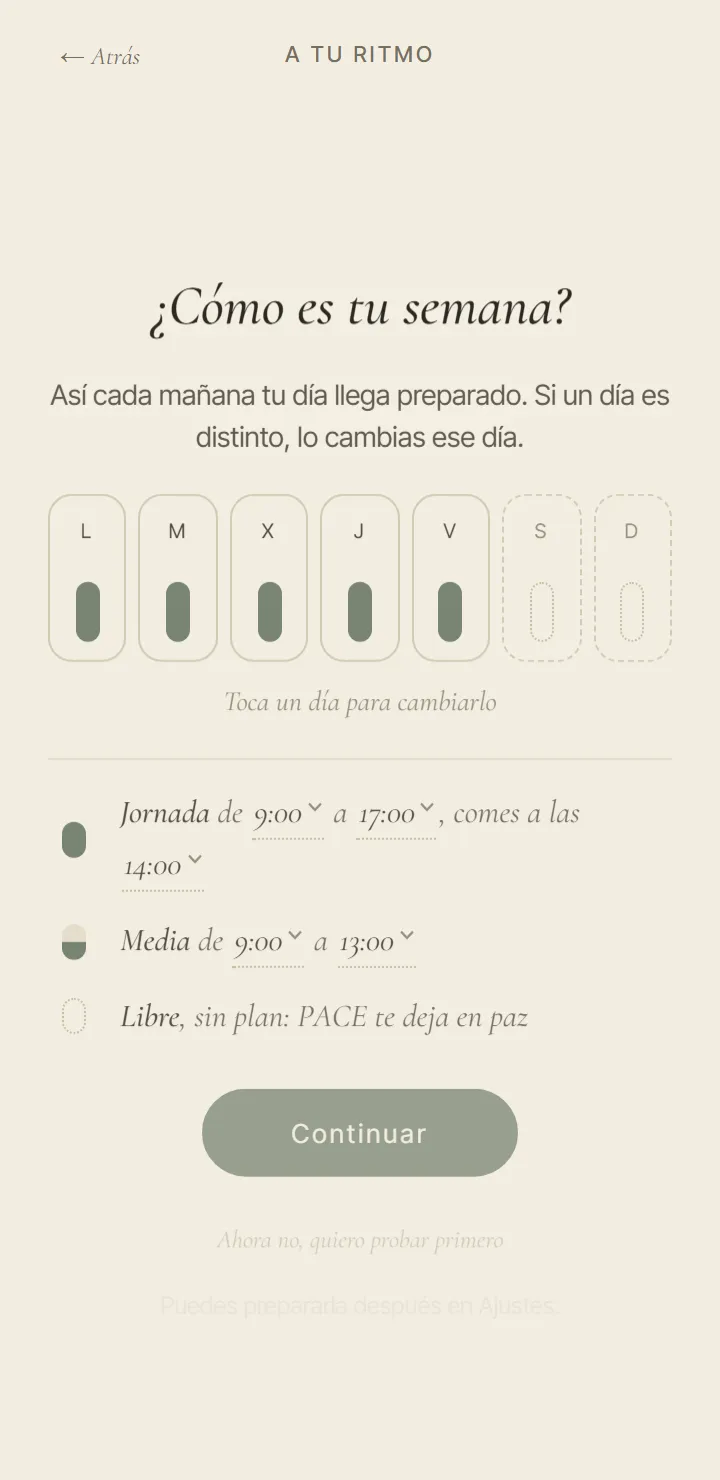
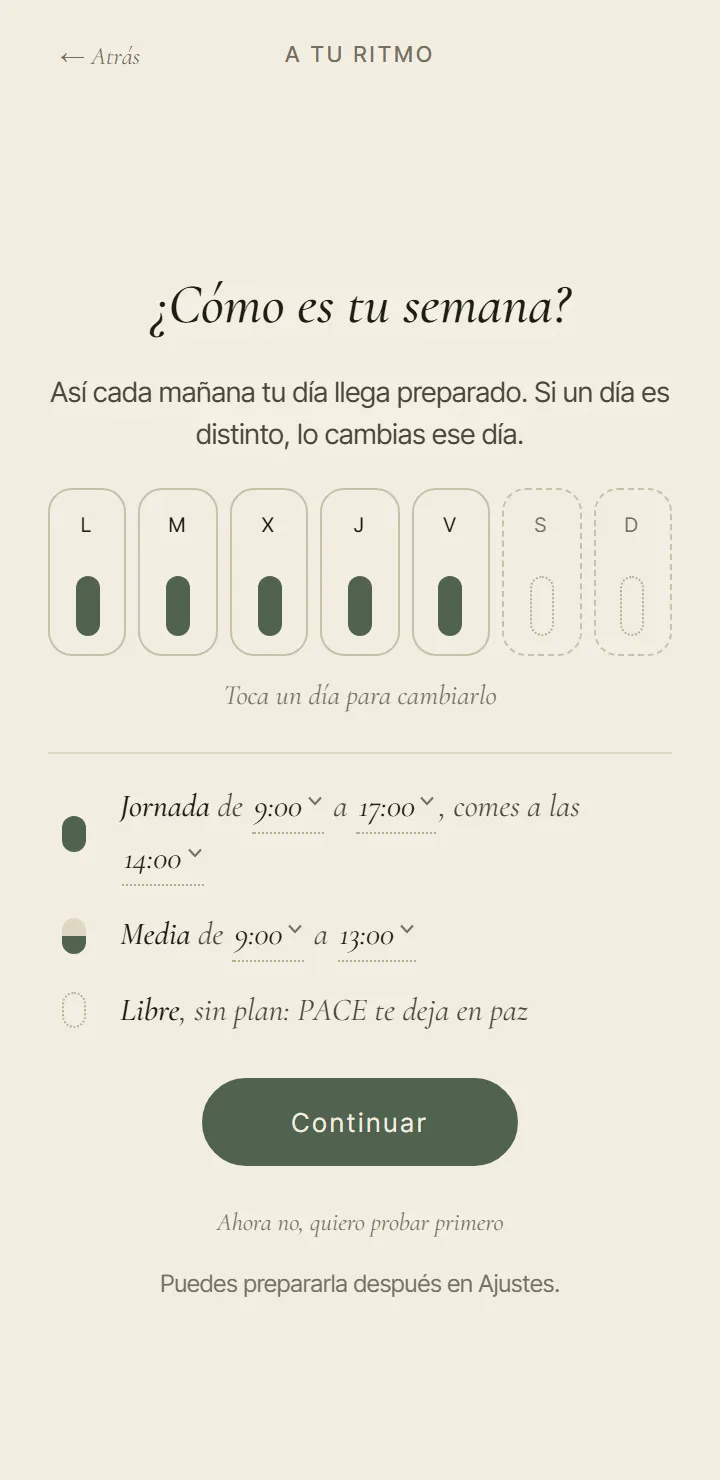
docs(recorrido-tester): los momentos clave en inglés y el móvil bajo de 360 × 640
En inglés, «Day complete» tras un solo bloque y «Keep going freestyle» con el día acabado; a 360 × 640
todo cabe. El conductor espera a que acaben los fundidos antes de cada foto (dos salían a medio aparecer).

diff --git a/docs/proposals/recorrido-tester-17nov/conduce.js b/docs/proposals/recorrido-tester-17nov/conduce.js
@@ -138,6 +138,8 @@ async function oido() {
 
 async function foto({ n, completa = false }) {
   await page.evaluate(() => document.fonts.ready);
+  /* Las entradas (fundidos de CSS) corren con el reloj de verdad, no con el falso: se les deja acabar. */
+  await page.waitForTimeout(1200);
   const png = await page.screenshot({ fullPage: completa });
   const ruta = path.join(FOTOS, n + '.webp');
   await require('sharp')(png).webp({ quality: 80 }).toFile(ruta);

diff --git a/docs/proposals/recorrido-tester-17nov/notas.md b/docs/proposals/recorrido-tester-17nov/notas.md
@@ -61,3 +61,13 @@ Se repite con `conduce.js` (ver DONDE-ME-QUEDO.md). «Oído» = lo que apuntan l
 
 ## El lunes siguiente (lo que verán el día 8)
 - d8-01 la carta: «Te ayudó: Empuje sencillo · 4 de 17 pausas hechas · Sigue igual: no ha habido nada que cambiar». Bien. (Conté 5 hechas: si el cierre no cuenta, son 4.) Arriba aparece el icono del sobre.
+- d2-12 (sin foto: salió a medio aparecer y el perfil ya había pasado de día).
+
+## Inglés, los momentos clave (perfil aparte, mismo lunes)
+- en-02 la comida, a las 12:30 en inglés (14:00 en castellano): bien pensado.
+- en-03 «Start» dos veces seguidas, como «Comenzar».
+- en-08 «Shoulders: unmoved today» se entiende mejor que «sin mover hoy». «I did it my own way» suena a canción: «I already did one».
+- en-15 tras UN bloque de 45 min y siete horas fuera: «DAY COMPLETE · 45 min of focus». «Complete» suena a día cumplido; «Jornada cerrada» no. Y «Keep going freestyle» + «NO PLAN TODAY» con el día ya acabado.
+
+## 360 × 640
+- p640-01..05: la home de la primera vez, el día servido, la ventana de la pausa y la ficha caben sin scroll. «CICLO 1 / 4» y «ACTIVIDADES» casi se tocan. (Ajustes, 12 px de scroll con «Vibrar»: ya sabido, rama de textos largos.)
